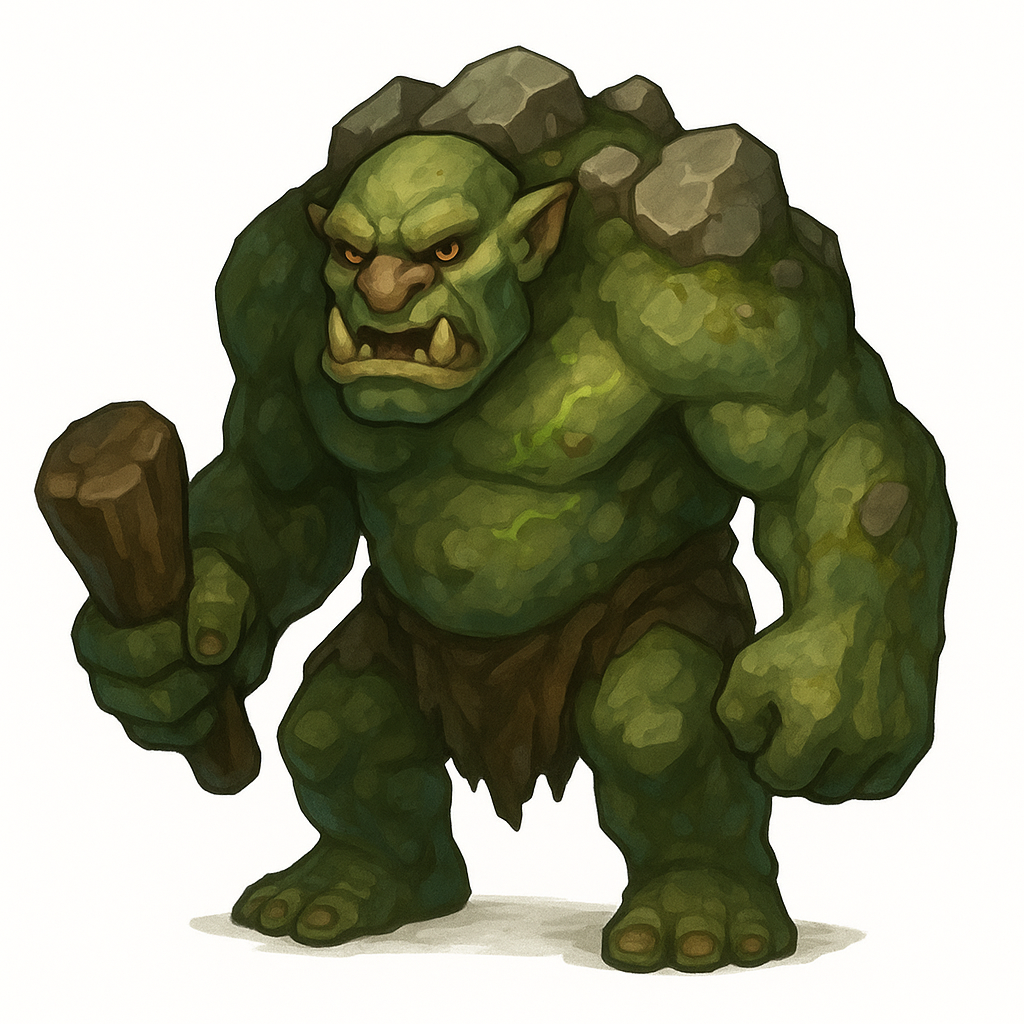
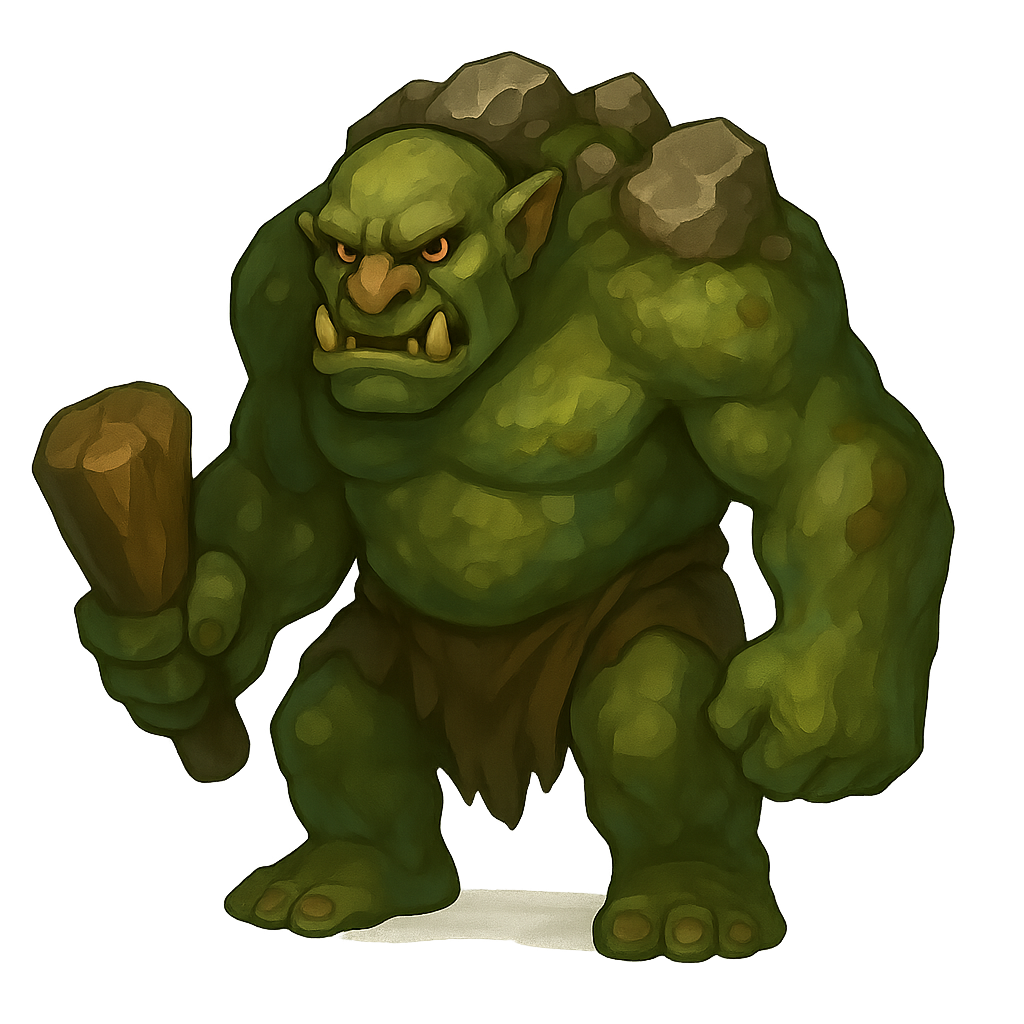
feat: Display combat power instead of level in player markers + new monster assets
## Changes
- **OtherPlayerMarker**: Changed from displaying level to combat power
  - Updated interface to use `combatPower` prop instead of `level`
  - Changed label from "Lv.X" to "⚔ X" with red color (#ef4444)
  - Updated JSDoc examples

- **useOtherPlayers**: Added combat_power to database queries
  - Fetch `combat_power` from player_profiles table
  - Include in both initial fetch and real-time subscription updates
  - Added `combatPower` field to OtherPlayer interface

- **WorldMapViewer**: Updated player marker rendering
  - Pass `combatPower` instead of `level` to OtherPlayerMarker
  - Added support for Harpy and Ogre monster images
  - Fixed monster image rendering for wandering monsters

## Assets
- Added new monster images: Harpy.png, ogre.png
- Updated troll.png image

Combat power provides better gameplay information than level as it reflects actual player strength including equipment and upgrades.

🤖 Generated with [Claude Code](https://claude.com/claude-code)

diff --git a/src/components/WorldMapViewer.tsx b/src/components/WorldMapViewer.tsx
@@ -56,6 +56,8 @@ import city5Img from '../assets/images/building/city5.png';
 import ancientGolemImg from '../assets/images/monster/ancient-golem.png';
 import direWolfImg from '../assets/images/monster/dire-wolf.png';
 import trollImg from '../assets/images/monster/troll.png';
+import ogreImg from '../assets/images/monster/ogre.png';
+import harpyImg from '../assets/images/monster/Harpy.png';
 
 interface WorldMapViewerProps {
   worldMap: WorldMap;
@@ -159,10 +161,14 @@ function WorldMapViewerComponent({
     ancientGolem: HTMLImageElement | null;
     direWolf: HTMLImageElement | null;
     troll: HTMLImageElement | null;
+    ogre: HTMLImageElement | null;
+    harpy: HTMLImageElement | null;
   }>({
     ancientGolem: null,
     direWolf: null,
-    troll: null
+    troll: null,
+    ogre: null,
+    harpy: null
   });
 
   // Perlin noise for smooth variant distribution (prevents checkerboard pattern)
@@ -301,15 +307,19 @@ function WorldMapViewerComponent({
     const images = {
       ancientGolem: new Image(),
       direWolf: new Image(),
-      troll: new Image()
+      troll: new Image(),
+      ogre: new Image(),
+      harpy: new Image()
     };
 
     images.ancientGolem.src = ancientGolemImg;
     images.direWolf.src = direWolfImg;
     images.troll.src = trollImg;
+    images.ogre.src = ogreImg;
+    images.harpy.src = harpyImg;
 
     let loadedCount = 0;
-    const totalImages = 3;
+    const totalImages = 5;
 
     const onLoad = () => {
       loadedCount++;
@@ -317,7 +327,9 @@ function WorldMapViewerComponent({
         setMonsterImages({
           ancientGolem: images.ancientGolem,
           direWolf: images.direWolf,
-          troll: images.troll
+          troll: images.troll,
+          ogre: images.ogre,
+          harpy: images.harpy
         });
         console.log('✅ All monster images loaded successfully');
       }
@@ -326,10 +338,14 @@ function WorldMapViewerComponent({
     images.ancientGolem.onload = onLoad;
     images.direWolf.onload = onLoad;
     images.troll.onload = onLoad;
+    images.ogre.onload = onLoad;
+    images.harpy.onload = onLoad;
 
     images.ancientGolem.onerror = () => console.error('Failed to load ancient-golem.png');
     images.direWolf.onerror = () => console.error('Failed to load dire-wolf.png');
     images.troll.onerror = () => console.error('Failed to load troll.png');
+    images.ogre.onerror = () => console.error('Failed to load ogre.png');
+    images.harpy.onerror = () => console.error('Failed to load Harpy.png');
   }, []);
 
   // Load all terrain images
@@ -626,7 +642,7 @@ function WorldMapViewerComponent({
         switch (obj.type) {
           case 'wanderingMonster':
             icon = '🐺';
-            // Check if this is a Dire Wolf or Troll and use image if available
+            // Check if this is a monster with an image and use it if available
             if ('enemyName' in obj) {
               if (obj.enemyName === 'Dire Wolf' && monsterImages.direWolf) {
                 useImage = true;
@@ -634,6 +650,12 @@ function WorldMapViewerComponent({
               } else if (obj.enemyName === 'Troll' && monsterImages.troll) {
                 useImage = true;
                 imgToUse = monsterImages.troll;
+              } else if (obj.enemyName === 'Ogre' && monsterImages.ogre) {
+                useImage = true;
+                imgToUse = monsterImages.ogre;
+              } else if (obj.enemyName === 'Harpy' && monsterImages.harpy) {
+                useImage = true;
+                imgToUse = monsterImages.harpy;
               }
             }
             break;
@@ -1165,7 +1187,7 @@ function WorldMapViewerComponent({
             {/* Player Marker */}
             <OtherPlayerMarker
               nickname={player.nickname}
-              level={player.level}
+              combatPower={player.combatPower}
               avatar={player.avatar || 'hero1.png'}
               color="#3b82f6"
               scale={zoom}

diff --git a/src/components/OtherPlayerMarker.tsx b/src/components/OtherPlayerMarker.tsx
@@ -1,7 +1,7 @@
 /**
  * Other Player Marker Component
  *
- * Displays other online players on the world map with their nickname and level.
+ * Displays other online players on the world map with their nickname and combat power.
  * Shows player avatar image with text label above.
  *
  * @author Roman Hlaváček - rhsoft.cz
@@ -20,26 +20,26 @@ import hero5Img from '../assets/images/hero/hero5.png';
 
 interface OtherPlayerMarkerProps {
   nickname: string;
-  level: number;
+  combatPower: number;
   avatar?: string; // Avatar filename (e.g., 'hero1.png')
   color?: string; // Optional color for fallback icon
   scale?: number; // Scale factor based on zoom level
 }
 
 /**
- * Renders a player marker with nickname and level
+ * Renders a player marker with nickname and combat power
  *
  * @param props - Component props
  * @returns React component
  *
  * @example
  * ```tsx
- * <OtherPlayerMarker nickname="Dragon123" level={15} avatar="hero2.png" />
+ * <OtherPlayerMarker nickname="Dragon123" combatPower={1250} avatar="hero2.png" />
  * ```
  */
 export function OtherPlayerMarker({
   nickname,
-  level,
+  combatPower,
   avatar = 'hero1.png',
   color = '#3b82f6', // Blue by default
   scale = 1 // Default scale
@@ -70,14 +70,14 @@ export function OtherPlayerMarker({
   const iconSize = Math.floor(32 * scale * 1.2);
   const labelPadding = `${Math.floor(4 * scale)}px ${Math.floor(8 * scale)}px`;
   const nicknameFontSize = Math.max(9, Math.floor(11 * scale));
-  const levelFontSize = Math.max(8, Math.floor(9 * scale));
+  const combatPowerFontSize = Math.max(8, Math.floor(9 * scale));
 
   return (
     <div style={styles.container}>
-      {/* Nickname and Level Label */}
+      {/* Nickname and Combat Power Label */}
       <div style={{ ...styles.label, padding: labelPadding }}>
         <span style={{ ...styles.nickname, fontSize: `${nicknameFontSize}px` }}>{nickname}</span>
-        <span style={{ ...styles.level, fontSize: `${levelFontSize}px` }}>Lv.{level}</span>
+        <span style={{ ...styles.combatPower, fontSize: `${combatPowerFontSize}px` }}>⚔ {combatPower}</span>
       </div>
 
       {/* Player Avatar Image */}
@@ -136,10 +136,10 @@ const styles: Record<string, React.CSSProperties> = {
     whiteSpace: 'nowrap',
     textShadow: '0 1px 2px rgba(0, 0, 0, 0.8)'
   },
-  level: {
+  combatPower: {
     fontSize: '9px',
     fontWeight: '600',
-    color: '#fbbf24',
+    color: '#ef4444',
     marginTop: '1px'
   },
   playerIcon: {

diff --git a/src/hooks/useOtherPlayers.ts b/src/hooks/useOtherPlayers.ts
@@ -22,6 +22,7 @@ export interface OtherPlayer {
   id: string;
   nickname: string;
   level: number;
+  combatPower: number;
   x: number;
   y: number;
   avatar?: string; // Player avatar filename (e.g., 'hero1.png')
@@ -50,7 +51,7 @@ export function useOtherPlayers(currentUserId: string | undefined): OtherPlayer[
     const fetchOnlinePlayers = async () => {
       const { data, error} = await supabase
         .from('player_profiles')
-        .select('id, nickname, player_level, current_map_x, current_map_y, avatar, current_chat_message, chat_message_timestamp, user_id')
+        .select('id, nickname, player_level, combat_power, current_map_x, current_map_y, avatar, current_chat_message, chat_message_timestamp, user_id')
         .eq('is_online', true)
         .neq('user_id', currentUserId)
         .not('current_map_x', 'is', null)
@@ -65,6 +66,7 @@ export function useOtherPlayers(currentUserId: string | undefined): OtherPlayer[
         id: p.id,
         nickname: p.nickname || 'Unknown',
         level: p.player_level || 1,
+        combatPower: p.combat_power || 0,
         x: p.current_map_x!,
         y: p.current_map_y!,
         avatar: p.avatar || 'hero1.png',
@@ -111,6 +113,7 @@ export function useOtherPlayers(currentUserId: string | undefined): OtherPlayer[
                     id: updated.id,
                     nickname: updated.nickname || 'Unknown',
                     level: updated.player_level || 1,
+                    combatPower: updated.combat_power || 0,
                     x: updated.current_map_x,
                     y: updated.current_map_y,
                     avatar: updated.avatar || 'hero1.png',
